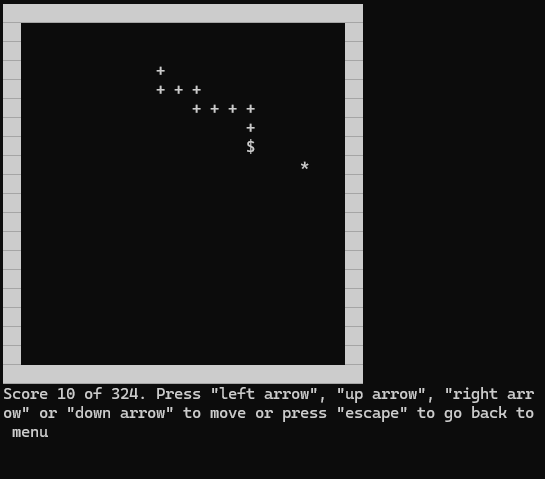
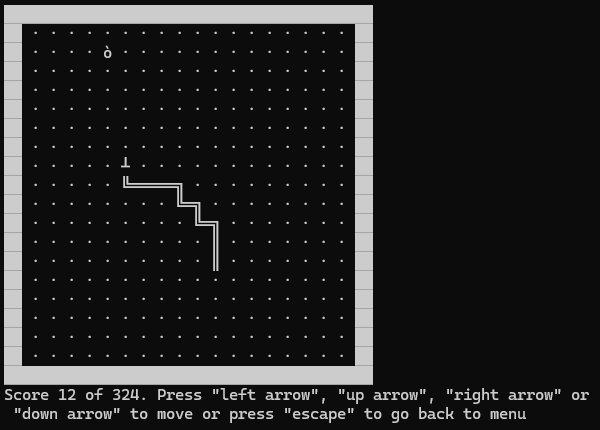
interface update

diff --git a/src/interface/src/interface.c b/src/interface/src/interface.c
@@ -46,7 +46,7 @@ const struct InputTrigger INPUT_TRIGGERS_DEFAULT[I__COUNT] = {
 
 const struct Speed SPEED_DEFAULT = {1, 10, 3, 3, 3};
 
-const struct Skin SKIN_DEFAULT = {219, '*', '.', '$', '+',
+const struct Skin SKIN_DEFAULT = {219, 149, 250, '$', 180, 195, 193, 194, 254, 187, 188, 201, 200, 205, 186,
 	"Use \"%s\" and \"%s\" to change menu item. Press \"%s\" to select",
 	{
 		"Start game",
@@ -121,8 +121,8 @@ void _restore_console() {
 }
 
 void _clear_screen() {
-	_isClearing = false;
-	while (!_isClearing) {
+	if (!_isClearing) {
+		_isClearing = true;
 		COORD topLeft = {0, 0};
 		HANDLE console = GetStdHandle(STD_OUTPUT_HANDLE);
 		CONSOLE_SCREEN_BUFFER_INFO screen;
@@ -131,7 +131,7 @@ void _clear_screen() {
 		FillConsoleOutputCharacter(console, ' ', screen.dwSize.X * screen.dwSize.Y, topLeft, &written);
 		FillConsoleOutputAttribute(console, FOREGROUND_GREEN | FOREGROUND_RED | FOREGROUND_BLUE, screen.dwSize.X * screen.dwSize.Y, topLeft, &written);
 		SetConsoleCursorPosition(console, topLeft);
-		_isClearing = true;
+		_isClearing = false;
 	}
 }
 
@@ -292,6 +292,54 @@ void _select_item() {
 	}
 }
 
+void print_snake_body(struct Board* board) {
+	if (board->snake.hasTurn) {
+		if ((board->snake.turn.before == DIR_LEFT && board->snake.turn.after == DIR_DOWN) || (board->snake.turn.before == DIR_UP && board->snake.turn.after == DIR_RIGHT)) {
+			printf("%2.c", _settings->skin.snakeBodyRightDown);
+		} else if ((board->snake.turn.before == DIR_LEFT && board->snake.turn.after == DIR_UP) || (board->snake.turn.before == DIR_DOWN && board->snake.turn.after == DIR_RIGHT)) {
+			printf("%2.c", _settings->skin.snakeBodyRightUp);
+		} else if ((board->snake.turn.before == DIR_RIGHT && board->snake.turn.after == DIR_DOWN) || (board->snake.turn.before == DIR_UP && board->snake.turn.after == DIR_LEFT)) {
+			printf("%c%c", _settings->skin.snakeBodyLeftRight, _settings->skin.snakeBodyLeftDown);
+		} else {
+			printf("%c%c", _settings->skin.snakeBodyLeftRight, _settings->skin.snakeBodyLeftUp);
+		}
+	} else {
+		if (board->snake.direction == DIR_LEFT || board->snake.direction == DIR_RIGHT) {
+			printf("%c%c", _settings->skin.snakeBodyLeftRight, _settings->skin.snakeBodyLeftRight);
+		} else {
+			printf("%2.c", _settings->skin.snakeBodyUpDown);
+		}
+	}
+}
+
+void print_snake_head(struct Board* board) {
+	char snakeHead;
+	switch (board->snake.direction) {
+		case DIR_LEFT: snakeHead = _settings->skin.snakeHeadLeft; break;
+		case DIR_RIGHT: snakeHead = _settings->skin.snakeHeadRight; break;
+		case DIR_UP: snakeHead = _settings->skin.snakeHeadUp; break;
+		case DIR_DOWN: snakeHead = _settings->skin.snakeHeadDown; break;
+		default: break;
+	}
+	if (board->snake.length > 1) {
+		if (!board->snake.hasTurn) {
+			if (board->snake.direction == DIR_RIGHT) {
+				printf("%c%c", _settings->skin.snakeBodyLeftRight, snakeHead);
+			} else {
+				printf("%2.c", snakeHead);
+			}
+		} else {
+			if ((board->snake.turn.before == DIR_DOWN && board->snake.turn.after == DIR_RIGHT) || (board->snake.turn.before == DIR_UP && board->snake.turn.after == DIR_RIGHT)) {
+				printf("%c%c", _settings->skin.snakeBodyLeftRight, snakeHead);
+			} else {
+				printf("%2.c", snakeHead);
+			}
+		}
+	} else {
+		printf("%2.c", snakeHead);
+	}
+}
+
 // public
 
 void init_interface(struct Settings* settings) {
@@ -354,7 +402,7 @@ void render_frame() {
 							if (board.snake.body[0].x == x && board.snake.body[0].y == y) {
 								printf("%2.c", _settings->skin.snakeHead);
 							} else {
-								printf("%2.c", _settings->skin.snakeBody, _settings->skin.snakeBody);
+								printf("%2.c", _settings->skin.snakeBody);
 							}
 							continue;
 						}
@@ -385,9 +433,9 @@ void render_frame() {
 						for (int x = 0; x < board.width; x++) {
 							if (board.snake.bodyMap[y][x]) {
 								if (board.snake.body[0].x == x && board.snake.body[0].y == y) {
-									printf("%2.c", _settings->skin.snakeHead);
+									print_snake_head(&board);
 								} else {
-									printf("%2.c", _settings->skin.snakeBody);
+									print_snake_body(&board);
 								}
 								continue;
 							}
@@ -399,8 +447,16 @@ void render_frame() {
 								printf("%2.c", _settings->skin.freeCell);
 								continue;
 							}
-							if (board.map[y][x] == board.wall_cell) {	
-								printf("%c%c", _settings->skin.wallCell, _settings->skin.wallCell);
+							if (board.map[y][x] == board.wall_cell) {
+								if (x == board.width - 1) {
+									if (y == 0 || y == board.height - 1) {
+										printf("%c%c%c", _settings->skin.wallCell, _settings->skin.wallCell, _settings->skin.wallCell);
+									} else {
+										printf(" %c%c", _settings->skin.wallCell, _settings->skin.wallCell);
+									}
+								} else {
+									printf("%c%c", _settings->skin.wallCell, _settings->skin.wallCell);
+								}
 								continue;
 							}
 						}
@@ -433,14 +489,14 @@ void render_frame() {
 						printf("%2.c", _settings->skin.freeCell);
 						coords.X = board.snake.body[0].x*2; coords.Y = board.snake.body[0].y;
 						SetConsoleCursorPosition(console, coords);
-						printf("%2.c", _settings->skin.snakeHead);
+						print_snake_head(&board);
 					} else if (_snakeLength != board.snake.length) {
 						coords.X = _snakeHead.x*2; coords.Y = _snakeHead.y;
 						SetConsoleCursorPosition(console, coords);
-						printf("%2.c", _settings->skin.snakeBody);
+						print_snake_body(&board);
 						coords.X = board.snake.body[0].x*2; coords.Y = board.snake.body[0].y;
 						SetConsoleCursorPosition(console, coords);
-						printf("%2.c", _settings->skin.snakeHead);
+						print_snake_head(&board);
 						coords.X = 0; coords.Y = board.height;
 						SetConsoleCursorPosition(console, coords);
 						printf(_settings->skin.ingameLabel, board.snake.length, (board.width-2)*(board.height-2), _settings->inputTriggers[I_LEFT].keyLabels[0], _settings->inputTriggers[I_UP].keyLabels[0], _settings->inputTriggers[I_RIGHT].keyLabels[0], _settings->inputTriggers[I_DOWN].keyLabels[0], _settings->inputTriggers[I_RETURN].keyLabels[0]);
@@ -448,10 +504,10 @@ void render_frame() {
 					} else {
 						coords.X = _snakeHead.x*2; coords.Y = _snakeHead.y;
 						SetConsoleCursorPosition(console, coords);
-						printf("%2.c", _settings->skin.snakeBody);
+						print_snake_body(&board);
 						coords.X = board.snake.body[0].x*2; coords.Y = board.snake.body[0].y;
 						SetConsoleCursorPosition(console, coords);
-						printf("%2.c", _settings->skin.snakeHead);
+						print_snake_head(&board);
 						coords.X = _snakeTail.x*2; coords.Y = _snakeTail.y;
 						SetConsoleCursorPosition(console, coords);
 						printf("%2.c", _settings->skin.freeCell);

diff --git a/src/board/src/board.c b/src/board/src/board.c
@@ -4,6 +4,7 @@
 #include "board.h"
 #include "snake.h"
 #include "global.h"
+#include <stdio.h>
 
 struct Board _board;
 
@@ -81,13 +82,15 @@ void end_game() {
 	delete_snake(&(_board.snake));
 }
 
-void update_game_state(enum GAME_STATE* gameState) {	
+void update_game_state(enum GAME_STATE* gameState) {
+	if (_board.snake.hasTurn && (_board.snake.turn.cell.x != _board.snake.body[0].x || _board.snake.turn.cell.y != _board.snake.body[0].y)) {
+		_board.snake.hasTurn = false;
+	}
 	move_snake(&(_board.snake));
 	*gameState = _check_collision();
 	if (_board.snake.length == (_board.width - 2) * (_board.height - 2)) { *gameState = GS_INGAME_WIN; }
 	if (*gameState == GS_INGAME_HIT_APPLE) { _create_apple(&_board); }
 }
-
 
 void change_direction(enum DIRECTIONS direction, enum GAME_STATE* gameState) {
 	if (_board.snake.length > 1 &&
@@ -96,7 +99,17 @@ void change_direction(enum DIRECTIONS direction, enum GAME_STATE* gameState) {
 		(_board.snake.direction == DIR_RIGHT && direction == DIR_LEFT) ||
 		(_board.snake.direction == DIR_DOWN && direction == DIR_UP)))
 	{ return; }
-	
+
+	if (_board.snake.length > 1 && _board.snake.direction != direction) {
+		_board.snake.hasTurn = true;
+		_board.snake.turn.before = _board.snake.direction;
+		_board.snake.turn.after = direction;
+		_board.snake.turn.cell.x = _board.snake.body[0].x;
+		_board.snake.turn.cell.y = _board.snake.body[0].y;
+	} else {
+		_board.snake.hasTurn = false;
+	}
+
 	_board.snake.direction = direction;
 	update_game_state(gameState);
 }

diff --git a/src/global.h b/src/global.h
@@ -26,6 +26,12 @@ enum DIRECTIONS {
 	DIR_DOWN
 };
 
+struct Turn{
+	enum DIRECTIONS before;
+	enum DIRECTIONS after;
+	struct Point cell;
+};
+
 struct Snake{
 	int length;
 	int direction;
@@ -34,6 +40,8 @@ struct Snake{
 	bool** bodyMap;
 	int bodyMaxWidth;
 	int bodyMaxHeight;
+	struct Turn turn;
+	bool hasTurn;
 };
 
 // Board
@@ -111,7 +119,17 @@ struct Skin {
 	char appleCell;
 	char freeCell;
 	char snakeHead;
+	char snakeHeadLeft;
+	char snakeHeadRight;
+	char snakeHeadUp;
+	char snakeHeadDown;
 	char snakeBody;
+	char snakeBodyLeftDown;
+	char snakeBodyLeftUp;
+	char snakeBodyRightDown;
+	char snakeBodyRightUp;
+	char snakeBodyLeftRight;
+	char snakeBodyUpDown;
 	char menuMainLabel[MAX_STRING_SIZE];
 	char menuMainLabels[GS__MENU_COUNT][MAX_STRING_SIZE];
 	char menuSpeedLabel[MAX_STRING_SIZE];

diff --git a/src/controller/tests/src/TestModel.c b/src/controller/tests/src/TestModel.c
@@ -6,7 +6,7 @@ int SEG; int EG; int SM; int SG; int UGS; int RF; int CD; int CI; int II; int Te
 
 const struct Speed SPEED_DEFAULT = {1, 3, 1, 3, 3};
 
-const struct Skin SKIN_DEFAULT = {'#', '*', '.', '$', '+',
+const struct Skin SKIN_DEFAULT = {219, 149, 250, '$', 180, 195, 193, 194, 254, 187, 188, 201, 200, 205, 186,
 	"menu item",
 	{
 		"Start",

diff --git a/src/snake/src/snake.c b/src/snake/src/snake.c
@@ -5,6 +5,8 @@
 
 
 void create_snake(struct Snake* snake, int boardWidth, int boardHeight) {
+	snake->hasTurn = false;
+	
 	snake->length = 1;
 	snake->direction = DIR_UP;
 	snake->bodyMaxWidth = boardWidth - 2;
